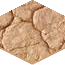
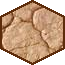
New tiles

Changed region(s): [[0.0, 0.0, 1.0, 1.0]]

diff --git a/core/src/lando/systems/ld38/world/World.java b/core/src/lando/systems/ld38/world/World.java
@@ -16,8 +16,8 @@ public class World {
 
     private static final float HEIGHT_NOISE_HEIGHT = 5f;
     private static final float HEIGHT_NOISE_SCALE = 0.6f;
-    private static final float ISLAND_BACK_HEIGHT = 3f;
-    private static final float ISLAND_FRONT_HEIGHT = -2f;
+    private static final float ISLAND_BACK_HEIGHT = 5f;
+    private static final float ISLAND_FRONT_HEIGHT = 0f;
     private static final long HEIGHT_NOISE_SEED = 23203423489124l;
 
     // Computed --------------------------------------------------------------------------------------------------------
@@ -127,7 +127,8 @@ public class World {
         float basicHeight = ISLAND_FRONT_HEIGHT + (ISLAND_RISE * depth);
         float noisePercent = (float)(osn.eval(col * HEIGHT_NOISE_SCALE, adjustedRow * HEIGHT_NOISE_SCALE) + 1) / 2; // -1 to 1
         float noiseHeight = HEIGHT_NOISE_HEIGHT * noisePercent;
-        return basicHeight + noiseHeight;
+        int quantHeight = (int) ((basicHeight + noiseHeight));
+        return quantHeight;
     }
 
 

diff --git a/core/src/lando/systems/ld38/world/Tile.java b/core/src/lando/systems/ld38/world/Tile.java
@@ -51,7 +51,7 @@ public class Tile extends GameObject {
 
     public void render(SpriteBatch batch, float x, float y, float width, float height){
 
-        float heightOffset = this.height;
+        float heightOffset = this.height * 2;
         float a = Math.max(this.height / World.WORLD_MAX_HEIGHT, 0);
         if (heightOffset > 0)
             batch.draw(bottom_tex, x, y, tileWidth, tileHeight);
